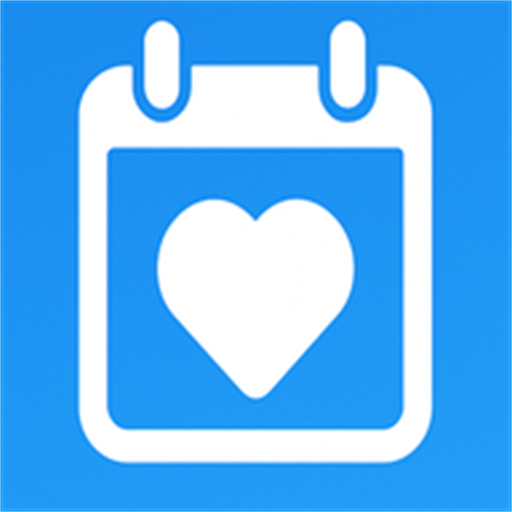
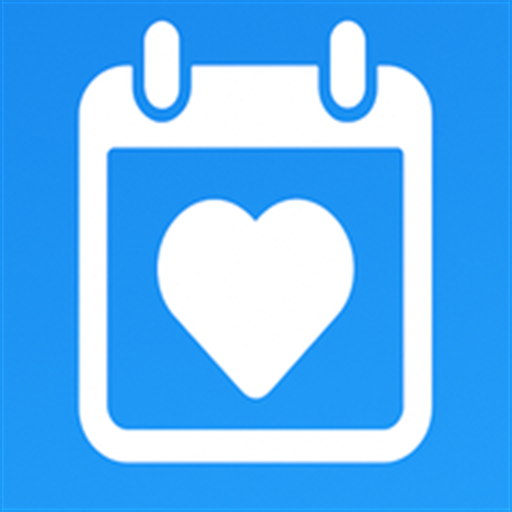
ícones

diff --git a/android-app-starter/scripts/organize-icons.js b/android-app-starter/scripts/organize-icons.js
@@ -1,0 +1,124 @@
+/**
+ * Gera os ícones do Android a partir de public/android-chrome-512x512.png.
+ * Cada densidade recebe o tamanho que o Android espera. Não cria
+ * ic_launcher_foreground.png: o manifesto usa só ic_launcher e ic_launcher_round.
+ *
+ * A origem deve ser um quadrado cheio e opaco. Se tiver transparência, o
+ * ícone herda uma moldura translúcida, e o script avisa no final.
+ * Requer Python 3 com Pillow (`pip install pillow`).
+ */
+
+import fs from 'fs';
+import path from 'path';
+import { spawnSync } from 'node:child_process';
+
+const source = 'public/android-chrome-512x512.png';
+const resRoot = 'android/app/src/main/res';
+
+const densities = [
+  ['mipmap-mdpi', 48],
+  ['mipmap-hdpi', 72],
+  ['mipmap-xhdpi', 96],
+  ['mipmap-xxhdpi', 144],
+  ['mipmap-xxxhdpi', 192],
+];
+
+const outputs = ['ic_launcher.png', 'ic_launcher_round.png'];
+
+function pngSize(file) {
+  const buf = fs.readFileSync(file);
+  return { width: buf.readUInt32BE(16), height: buf.readUInt32BE(20) };
+}
+
+function createDirectories() {
+  for (const [folder] of densities) {
+    fs.mkdirSync(path.join(resRoot, folder), { recursive: true });
+  }
+}
+
+function removeStaleForegrounds() {
+  for (const [folder] of densities) {
+    const stale = path.join(resRoot, folder, 'ic_launcher_foreground.png');
+    if (fs.existsSync(stale)) {
+      fs.unlinkSync(stale);
+      console.log(`🗑  Removido: ${stale}`);
+    }
+  }
+}
+
+function resizeWithPillow() {
+  const jobs = densities.flatMap(([folder, size]) =>
+    outputs.map((name) => ({
+      dest: path.join(resRoot, folder, name).replaceAll('\\', '/'),
+      size,
+    })),
+  );
+  const code = `
+import json, sys
+from PIL import Image
+src, jobs = sys.argv[1], json.loads(sys.argv[2])
+image = Image.open(src).convert("RGBA")
+for job in jobs:
+    image.resize((job["size"], job["size"]), Image.Resampling.LANCZOS).save(job["dest"], "PNG", optimize=True)
+print(image.getchannel("A").getextrema()[0])
+`;
+  const python = process.platform === 'win32' ? 'python' : 'python3';
+  const result = spawnSync(python, ['-c', code, source, JSON.stringify(jobs)], {
+    stdio: ['ignore', 'pipe', 'inherit'],
+    encoding: 'utf8',
+  });
+  if (result.status !== 0) {
+    console.log('❌ Não foi possível redimensionar. É preciso Python com Pillow.');
+    return null;
+  }
+  // O Python devolve o menor alfa da origem; abaixo de 255 o ícone sai translúcido.
+  return Number(result.stdout.trim());
+}
+
+function verifySizes() {
+  let ok = true;
+  for (const [folder, size] of densities) {
+    for (const name of outputs) {
+      const file = path.join(resRoot, folder, name);
+      const { width, height } = pngSize(file);
+      if (width !== size || height !== size) {
+        console.log(`❌ ${file} ficou ${width}x${height}; esperado ${size}x${size}`);
+        ok = false;
+      } else {
+        console.log(`✅ ${file} ${size}x${size}`);
+      }
+    }
+  }
+  return ok;
+}
+
+function organizeIcons() {
+  console.log('📱 Gerando ícones do Android a partir de 512x512...\n');
+
+  if (!fs.existsSync('android')) {
+    console.log('⚠  Pasta android/ não encontrada. Execute primeiro:');
+    console.log('   npx cap add android');
+    return false;
+  }
+  if (!fs.existsSync(source)) {
+    console.log(`⚠  Arquivo não encontrado: ${source}`);
+    return false;
+  }
+
+  createDirectories();
+  removeStaleForegrounds();
+  const minAlpha = resizeWithPillow();
+  if (minAlpha === null || !verifySizes()) {
+    return false;
+  }
+
+  console.log('\n🎉 Ícones gerados nos tamanhos de cada densidade.');
+  console.log('   Só ic_launcher.png e ic_launcher_round.png.');
+  if (minAlpha < 255) {
+    console.log(`\n⚠  ${source} tem transparência (alfa mínimo ${minAlpha}).`);
+    console.log('   O ícone do Android sai com moldura translúcida. Deixe a origem opaca.');
+  }
+  return true;
+}
+
+process.exit(organizeIcons() ? 0 : 1);

diff --git a/android-app-starter/docs/CREATE_NEW_PROJECT_FROM_ARCHETYPE.md b/android-app-starter/docs/CREATE_NEW_PROJECT_FROM_ARCHETYPE.md
@@ -92,10 +92,13 @@ Android nativo:
   target.
 - `android/app/src/main/java/.../MainActivity.java`: mover diretório para o
   novo pacote e alterar a linha `package`.
-- Ícones em `android/app/src/main/res/mipmap-*` (`ic_launcher` e
-  `ic_launcher_round`, um PNG por densidade: 48, 72, 96, 144 e 192 px) e em
-  `public/` quando houver marca final. Não há splash drawable: a abertura no
-  Android 12+ mostra esse ícone.
+- Ícones: quando houver marca final, troque os de `public/`. O
+  `android-chrome-512x512.png` precisa ser um quadrado cheio e opaco. Depois rode
+  `npm run icons:organize` (requer Python 3 com Pillow). Ele grava
+  `ic_launcher` e `ic_launcher_round` em `android/app/src/main/res/mipmap-*`
+  (48, 72, 96, 144 e 192 px) e avisa se a origem tiver transparência. Alguns
+  geradores entregam uma borda translúcida de 1 a 2 px, que viraria moldura no
+  ícone. Não há splash drawable: a abertura no Android 12+ mostra esse ícone.
 
 Mantenha `android/` versionado. Ignore apenas build/cache/config local/keystore.
 

diff --git a/android-app-starter/docs/ANDROID-BUILD-TOOLCHAIN.md b/android-app-starter/docs/ANDROID-BUILD-TOOLCHAIN.md
@@ -93,8 +93,14 @@ O de APIs descontinuadas de ponta a ponta pode voltar: o `EdgeToEdge.enable` do
 AndroidX ainda chama essas APIs abaixo do Android 15. Ver
 [EDGE-TO-EDGE-SAFE-AREA.md](./EDGE-TO-EDGE-SAFE-AREA.md).
 
-Este starter ainda não teve AAB de release medido depois dessa mudança. A medição
-e o teste de abertura no aparelho foram feitos no My Memories.
+Em **23/09/2026** o `:app:assembleRelease` deste starter passou com R8 (2 min).
+O APK de release, assinado só com a chave de debug para o emulador, abriu
+`com.example.androidstarter` sem crash. O DEX ficou em cerca de 2,0 MB, com
+`mapping.txt` gerado. O `capacitor-updater` está no `package.json`, mas não está
+no projeto Android sincronizado, então o WorkManager não entrou neste pacote e
+o crash do `WorkDatabase_Impl` não foi exercitado aqui. A regra do Room fica
+para quando o plugin for sincronizado. Os percentuais da Play saem do `r8.json`
+de um AAB; este teste foi um APK.
 
 ## Biometria
 
